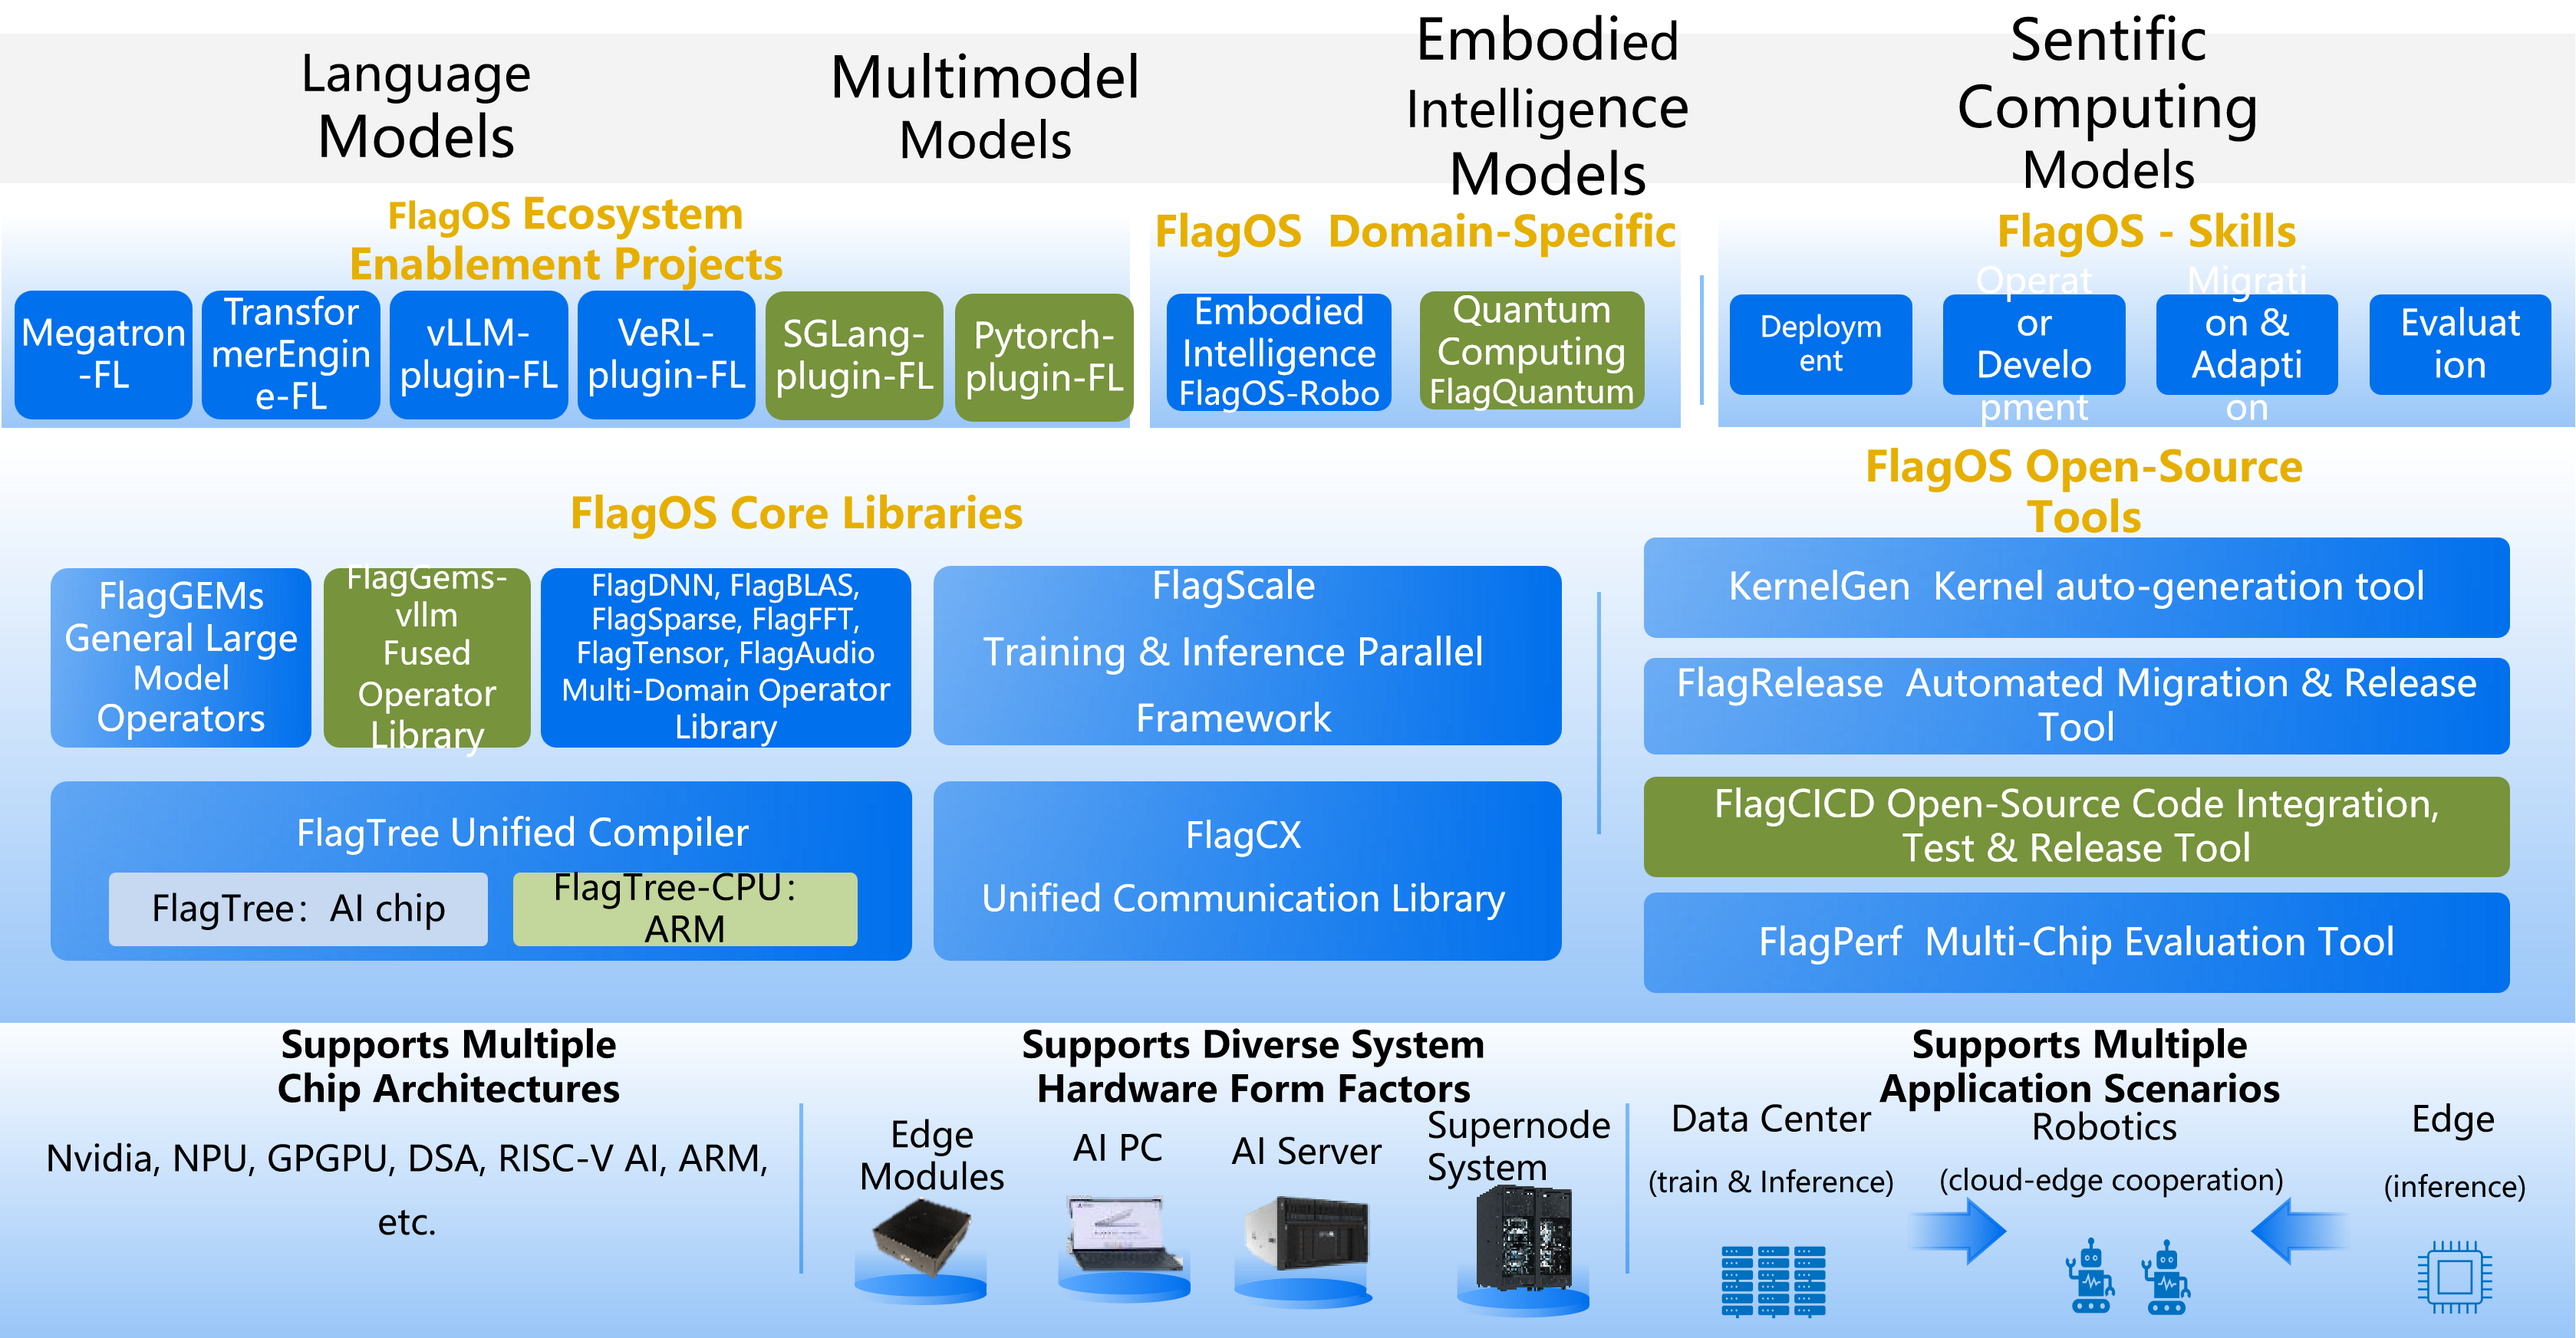
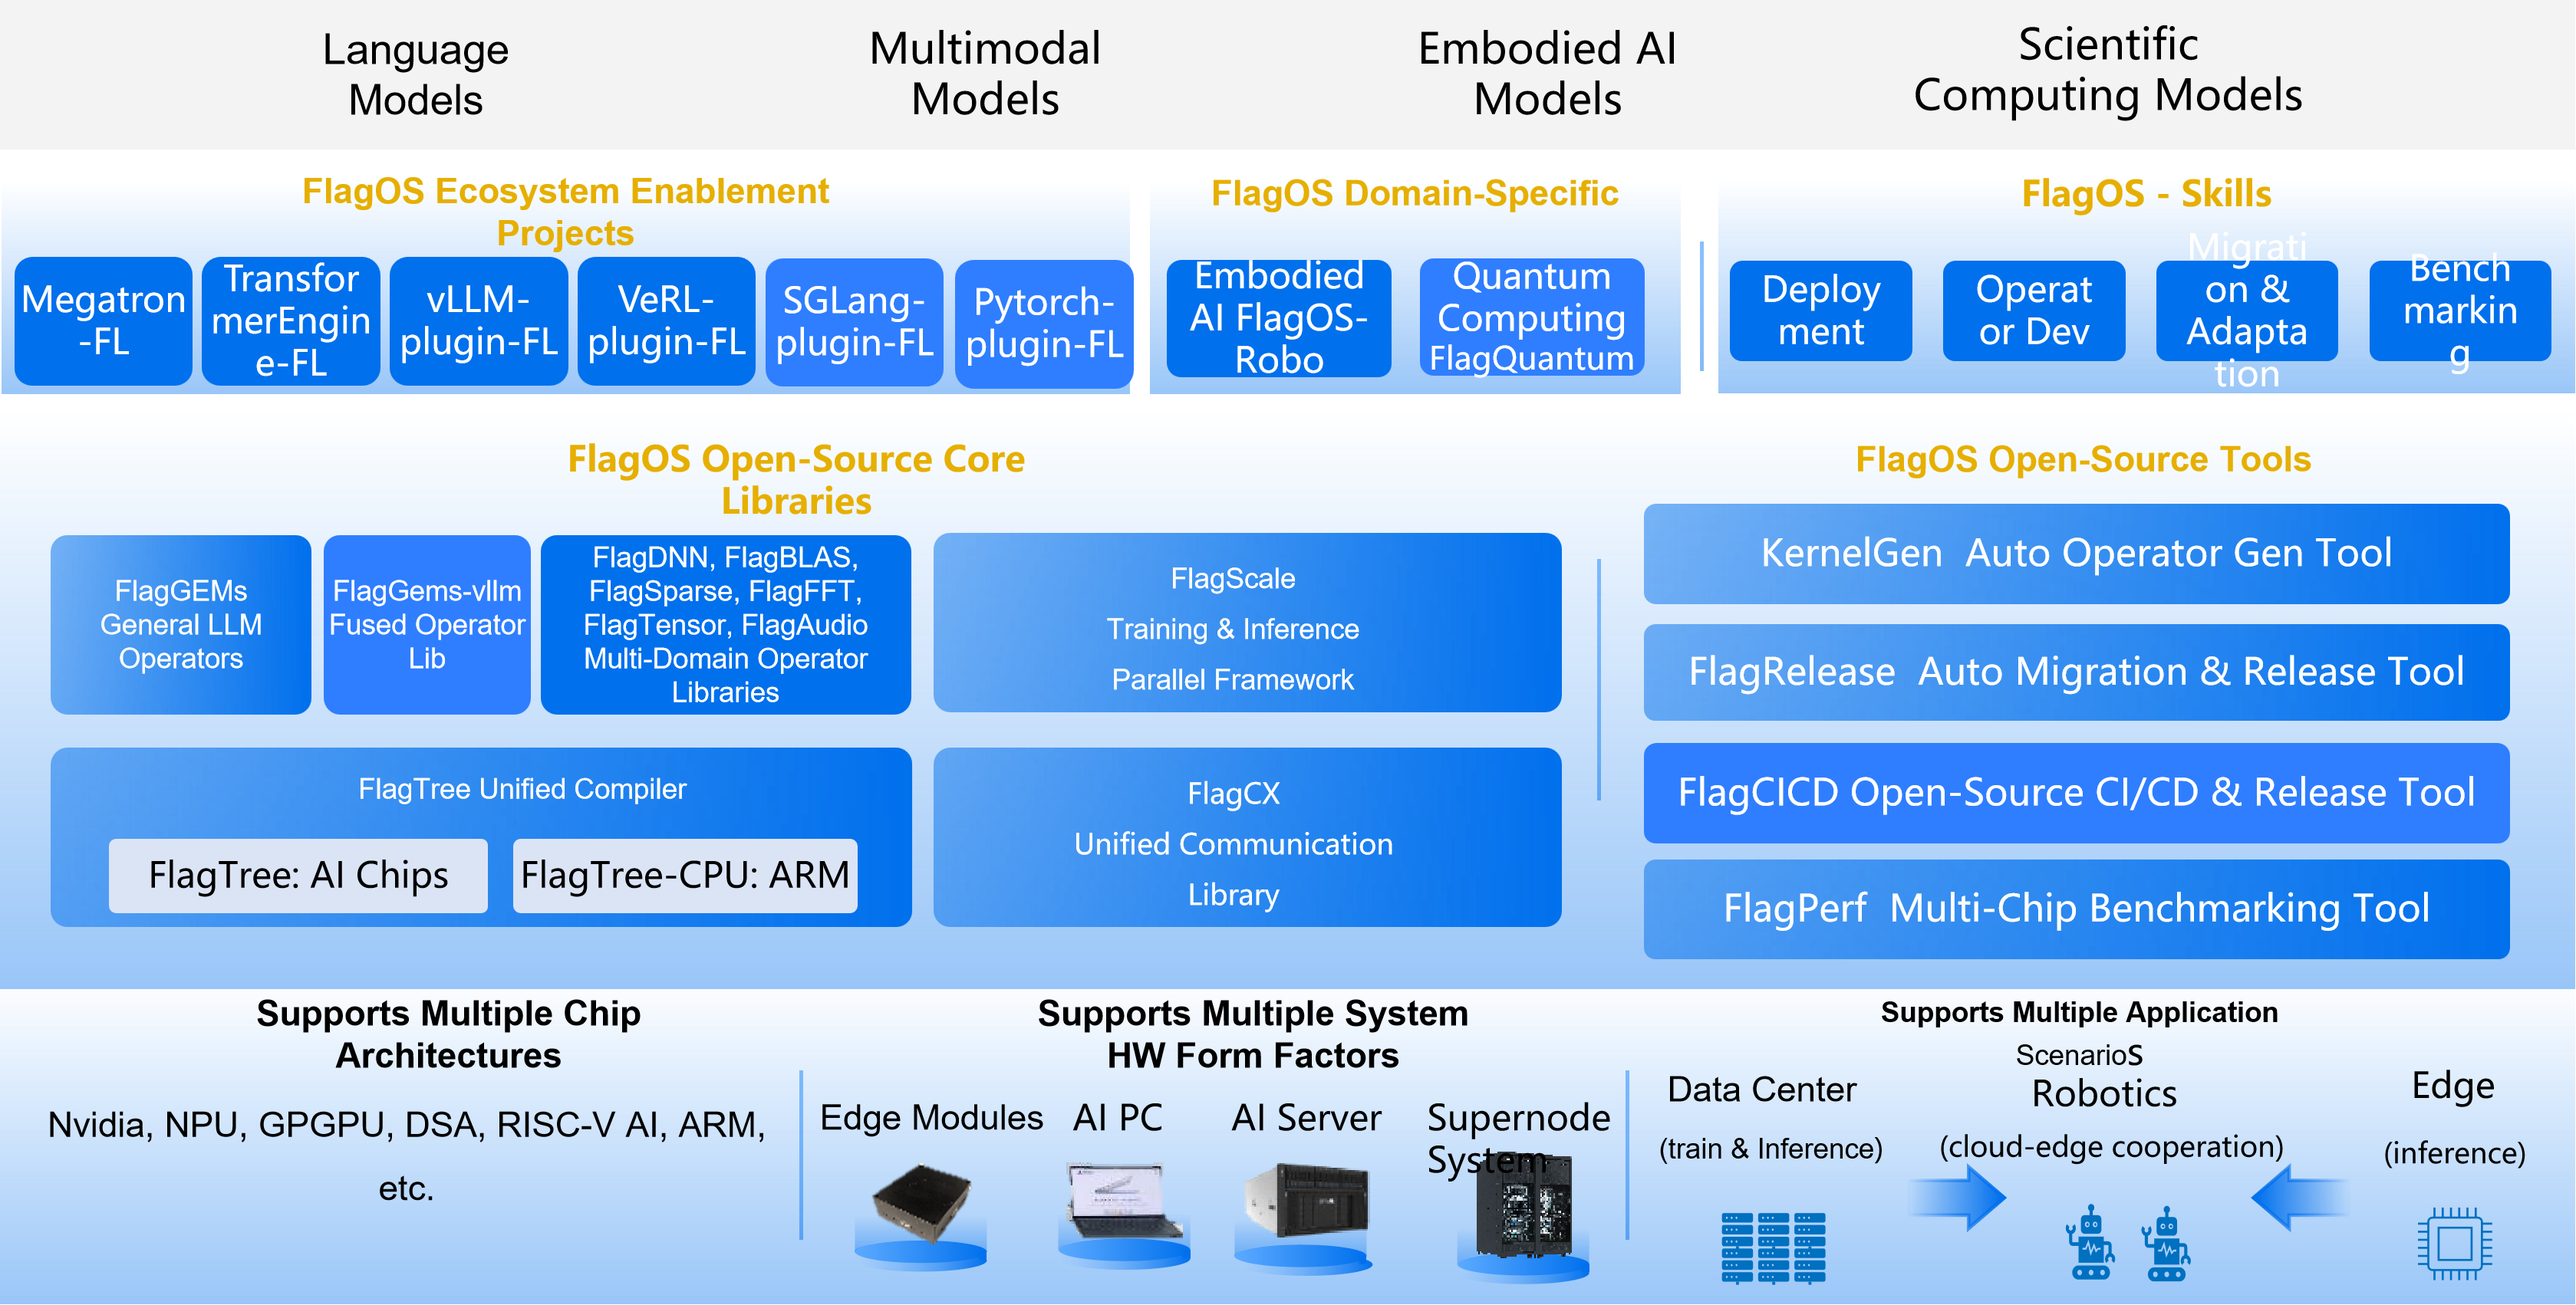
Updated versions

diff --git a/docs/flagos_homepage/overview.md b/docs/flagos_homepage/overview.md
@@ -2,6 +2,11 @@
 
 FlagOS is a fully open-source AI system software stack for heterogeneous AI chips, allowing AI models to be developed once and seamlessly ported to a wide range of AI hardware with minimal effort.
 
+```{note}
+This is a preview release. The version number shown is a pre-release identifier and may change upon final release. Content in this preview is for reference only and does not constitute a commitment or warranty for the final product.
+```
+
+
 ## FlagOS architecture
 
 The figure below shows the position of FlagOS in the AI ecosystem and its composition modules.
@@ -74,15 +79,15 @@ The FlagOS ecosystem enablement layer adopts a plugin architecture composed of t
 
   PyTorch-Plugin-FL is a custom PyTorch device plugin based on the PrivateUse1 extension mechanism, registering FlagGems high-performance Triton operators as the flagos device backend for unified multi-chip support.
 
-- **Megatron-LM-FL** (v0.1.0)
+- **Megatron-LM-FL** (v0.2.0)
 
   Megatron-LM-FL extends the distributed training capabilities of Megatron-LM to diverse AI chips, supporting scalable large-model training across heterogeneous hardware.
 
-- **TransformerEngine-FL** (v0.1.0)
+- **TransformerEngine-FL** (v0.2.0)
 
   TransformerEngine-FL extends the transformer acceleration capabilities of Transformer Engine to diverse AI chips, enabling hardware-agnostic training acceleration.
 
-- **verl-FL** (v0.1.0)
+- **verl-FL** (v0.2.0)
 
   verl-FL extends the reinforcement learning capabilities of veRL to diverse AI chips, broadening the hardware coverage for RL-based training workflows.
 
